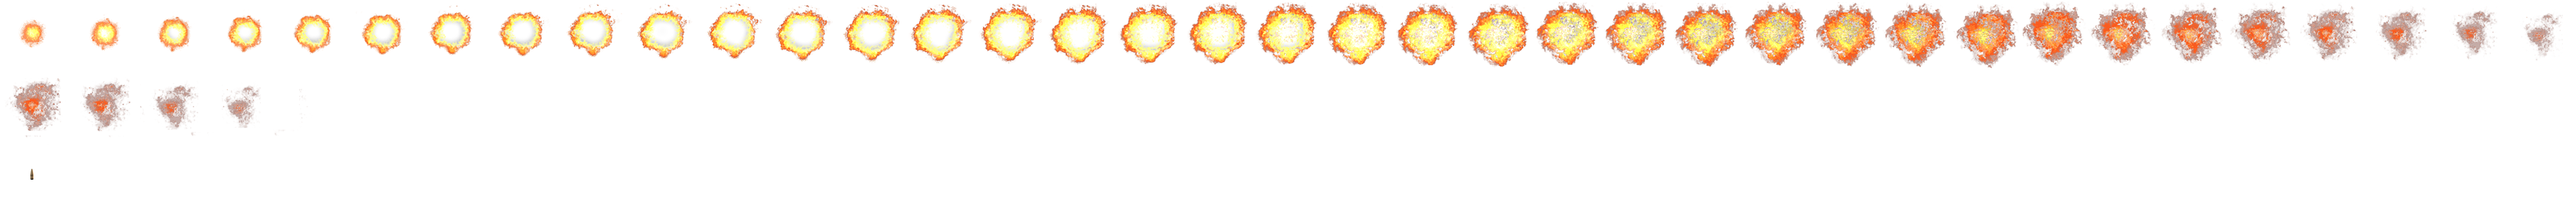
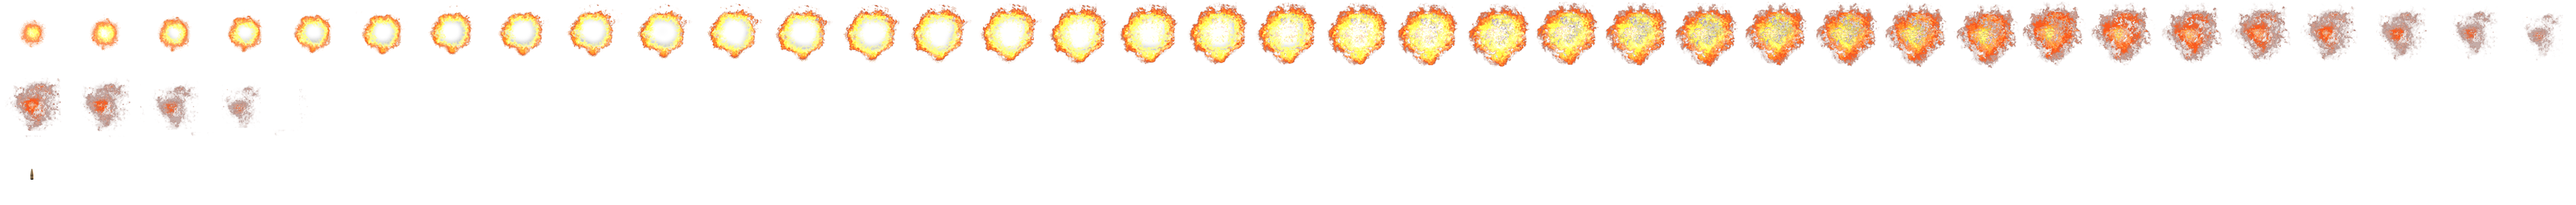
update 2

Changed region(s): [[0.0624, 0.0, 0.9977, 0.3298]]

diff --git a/GameTanks/ready_objects.cpp b/GameTanks/ready_objects.cpp
@@ -48,9 +48,9 @@ Bullet::Bullet(int const& id_object, float const& spawn_x, float const& spawn_y,
 	GameObject* Parrent) : MovebleObject(
 		id_object,
 		sf::Vector2f(spawn_x, spawn_y), //coordinate centr
-		sf::Vector2f(10, 30), //offset
-		"Data/Animation/Bullet.png", //texture
-		1, 1,	//frame count
+		sf::Vector2f(96, 96), //offset
+		"Data/Animation/BoomTestSet.png", //texture
+		37, 3,	//frame count
 		3,		//life level
 		500,	//speed move
 		0,		//freeze time
@@ -59,8 +59,10 @@ Bullet::Bullet(int const& id_object, float const& spawn_x, float const& spawn_y,
 	this->AddCollision(new RoundCollision(sf::Vector2f(0, 0), 10));
 }
 
-void Bullet::PlayAnimateDie() { }
+void Bullet::PlayAnimateDie() { this->StartPlayAnimation(1, 1, 37, 50); }
 
-void Bullet::PlayAnimateLife() { }
+void Bullet::PlayAnimateLife() { this->StartPlayAnimation(2, 1, 4, 50); }
+
+void Bullet::PlayAnimateMovePlus() { this->StartPlayAnimation(3, 1, 1, 1); }
 
 void Bullet::RestoreLife() { this->SetLifeLevel(3); }

diff --git a/GameTanks/base_level.cpp b/GameTanks/base_level.cpp
@@ -322,7 +322,7 @@ void BaseLevel::CalculateCollisionOnLevel() {
 			}
 		}
 	}
-
+	
 
 	//shot collisions
 	bool die_current_shot;
@@ -395,7 +395,7 @@ void BaseLevel::CalculateCollisionOnLevel() {
 			}
 		}
 	}
-
+	
 	//save good collisions
 	for (i = 0; i < (int)Enemy_objects_.size(); i++)	Enemy_objects_[i]->SafeState();
 	for (i = 0; i < (int)Players_objects_.size(); i++)	Players_objects_[i]->SafeState();

diff --git a/GameTanks/lan_game.cpp b/GameTanks/lan_game.cpp
@@ -1,6 +1,14 @@
 #include "engine.h"
 
 bool Engine::LanGame() {
+	/*
+	sf::IpAddress ip = sf::IpAddress::getLocalAddress(); //Get local IP
+	sf::TcpSocket socket;
+
+	if (im_server_) {
+		
+	}
+	*/
 	//Get Intafomration to go client: BaseLevel->GetObjectToSendClient
 	return true; //returns value when connected to the network game
 }

diff --git a/GameTanks/game_level.cpp b/GameTanks/game_level.cpp
@@ -10,7 +10,7 @@ GameLevel::GameLevel() : BaseLevel() {
 	this->SetWatchObject(Player_);
 
 	TankObject* tank;
-	for (int i = 0; i < 50; i++) {
+	for (int i = 0; i < 1; i++) {
 		tank = new RedTank(1, 300, 400);
 		this->AddEnemyObject(tank);
 	}

diff --git a/GameTanks/ready_objects.h b/GameTanks/ready_objects.h
@@ -22,6 +22,7 @@ class Bullet : public MovebleObject {
 private:
 	void PlayAnimateDie() override;
 	void PlayAnimateLife() override;
+	void PlayAnimateMovePlus() override;
 	void RestoreLife() override;
 
 public:

diff --git a/GameTanks/Engine.h b/GameTanks/Engine.h
@@ -1,5 +1,6 @@
 #pragma once
 #include <SFML/Graphics.hpp>
+#include <SFML/Network.hpp>
 #include "settings.h"
 #include "run_game.h"
 #include "levels.h"
